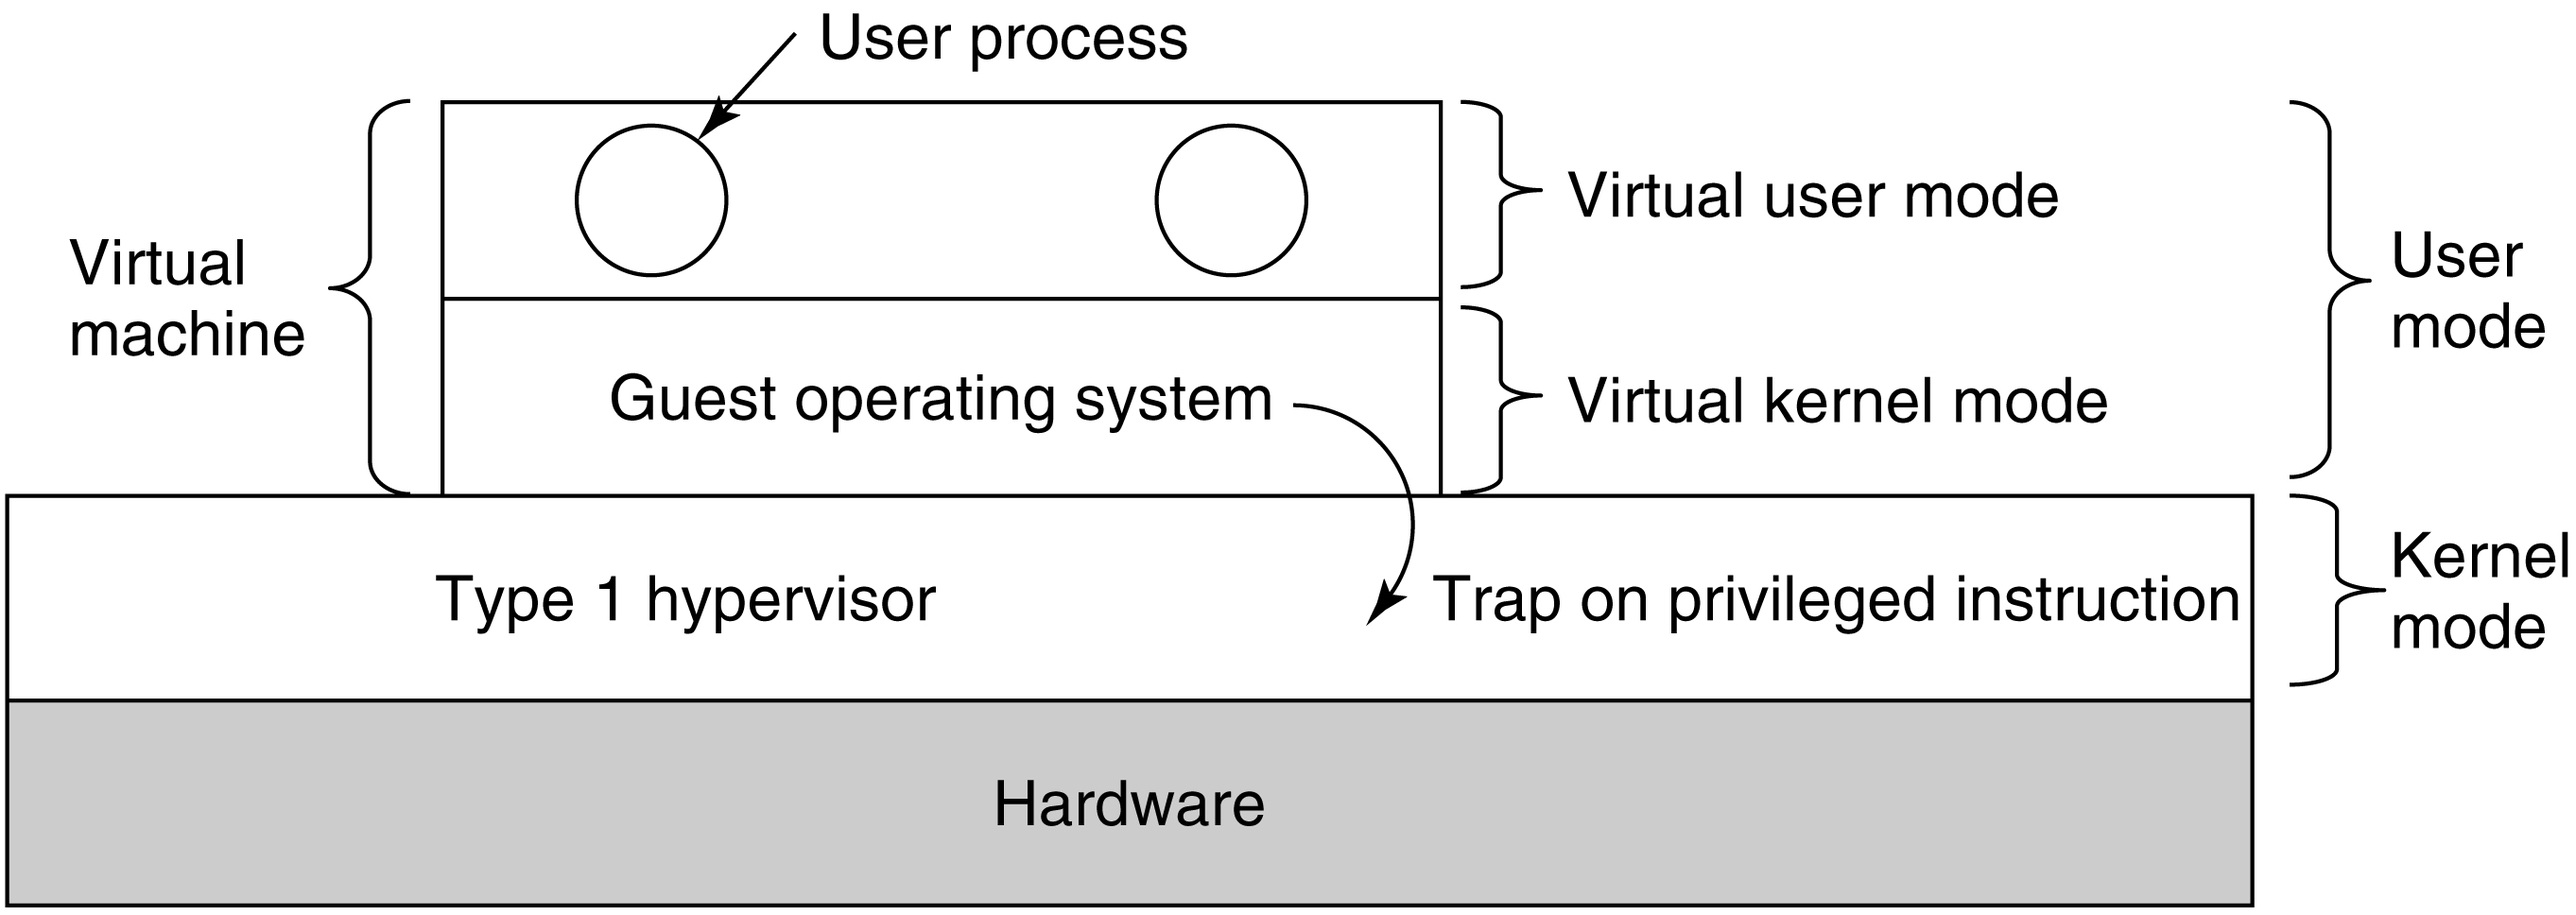
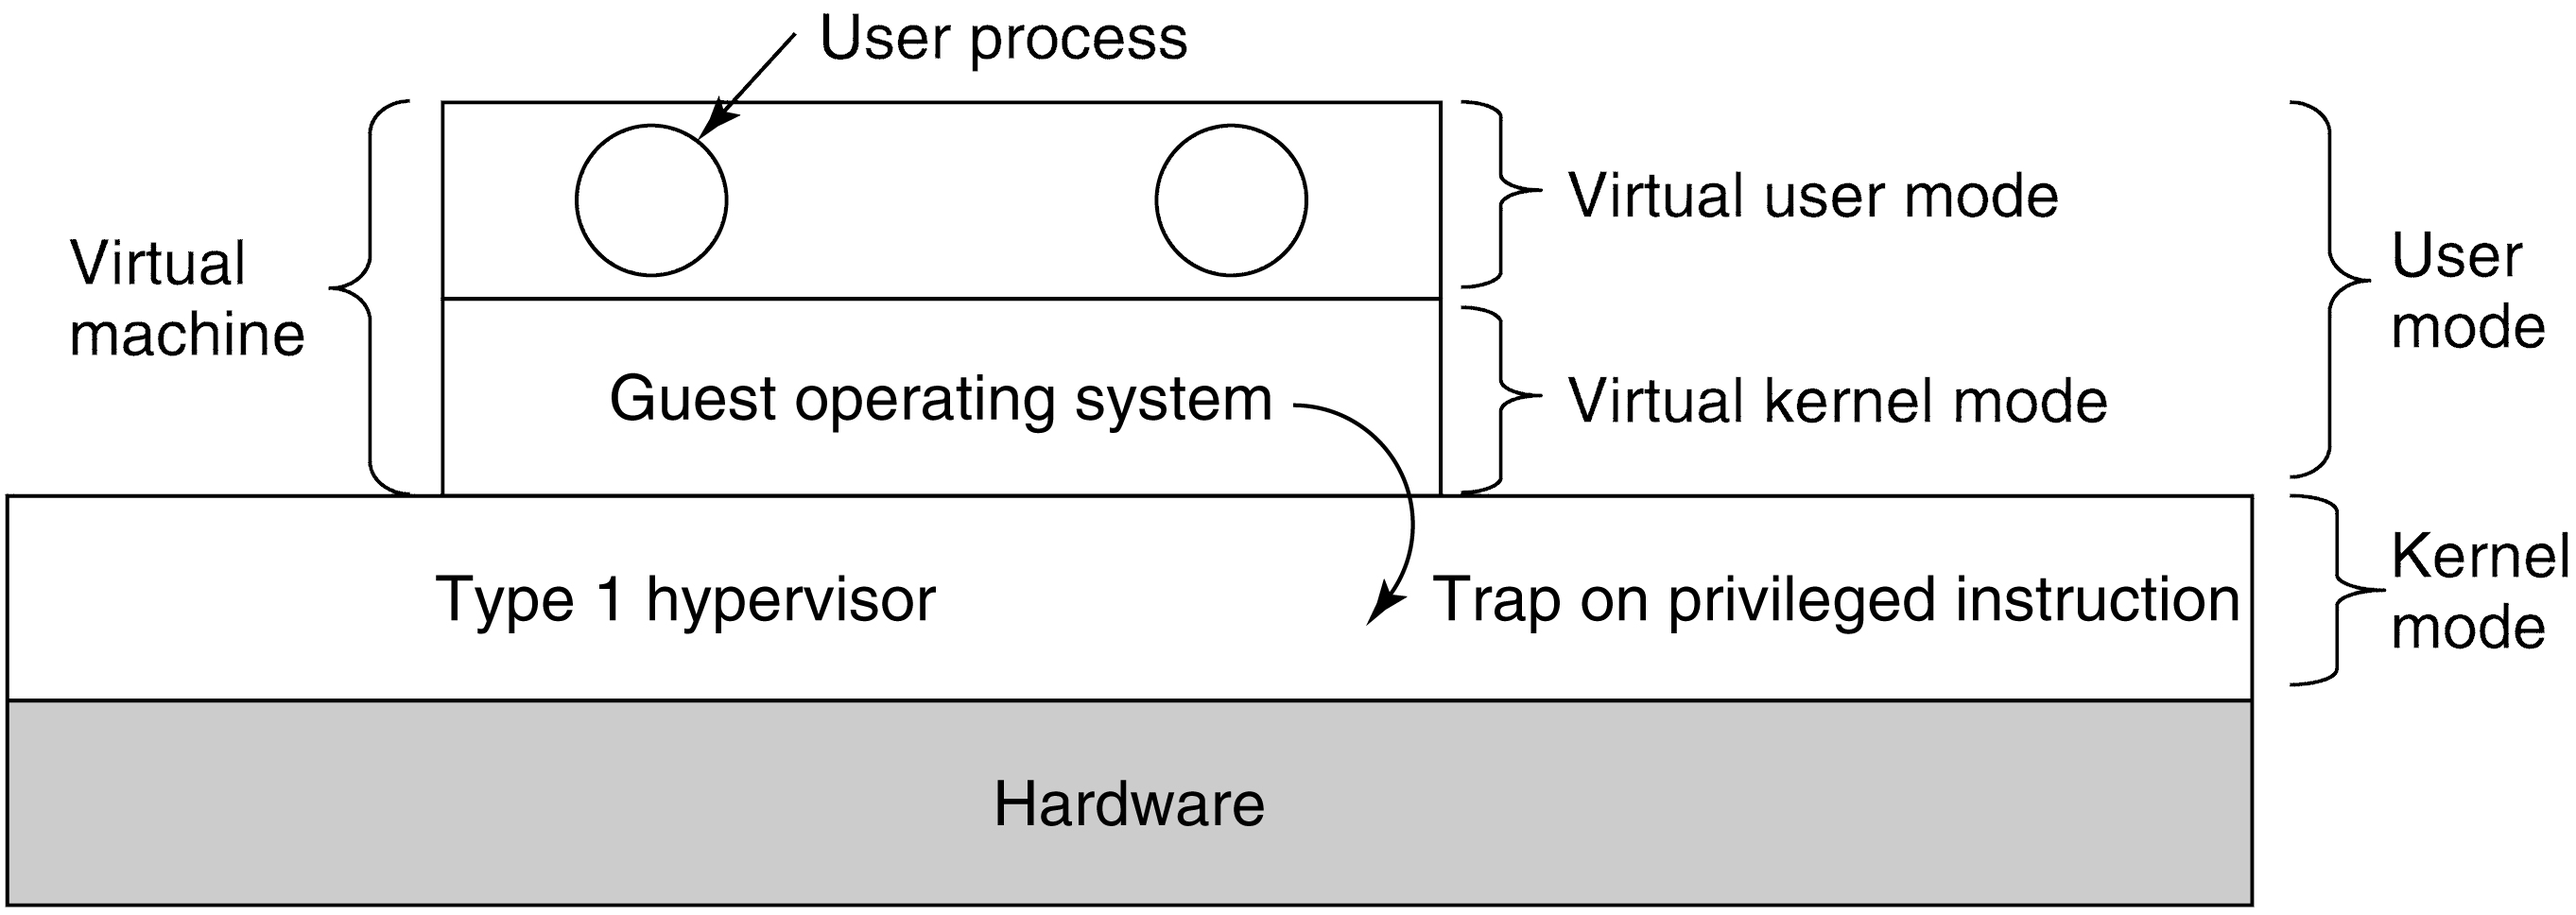
HTML rebuild.

diff --git a/EfficientVirtual.html b/EfficientVirtual.html
@@ -30,8 +30,8 @@
             <div style="text-align:center">
                 <p>
                 <img
-                src="graphics/07-03.jpg"
-                height="210" width="400">
+                src="graphics/07-03.png"
+                height="210" width="440">
                 </p>
             </div>
 
@@ -129,7 +129,7 @@
 
 
     <details>
-        <summary id="sum1">
+        <summary class="sum1">
             Quiz
         </summary>
         <ol>
@@ -160,19 +160,19 @@
             <ol type="a">
                 <li>
                 <input type="radio" name="q2" value="new">
-                in virtual kernel mode
+                 ^in virtual kernel mode
                 </li>
                 <li>
                 <input type="radio" name="q2" value="new">
-                in kernel mode
+                 in kernel mode
                 </li>
                 <li>
                 <input type="radio" name="q2" value="new">
-                as an ordinary application
+                 as an ordinary application
                 </li>
                 <li>
                 <input type="radio" name="q2" value="new">
-                very very slowly
+                 very very slowly
                 </li>
             </ol>
             <li>
@@ -181,19 +181,19 @@
             <ol type="a">
                 <li>
                 <input type="radio" name="q3" value="new">
-                automatic trapping of sensitive instructions
+                 automatic trapping of sensitive instructions
                 </li>
                 <li>
                 <input type="radio" name="q3" value="new">
-                the native x86 virtualization technology
+                 the native x86 virtualization technology
                 </li>
                 <li>
                 <input type="radio" name="q3" value="new">
-                protection rings
+                 ^protection rings
                 </li>
                 <li>
                 <input type="radio" name="q3" value="new">
-                all of the above
+                 all of the above
                 </li>
             </ol>
             <li>
@@ -202,19 +202,19 @@
             <ol type="a">
                 <li>
                 <input type="radio" name="q4" value="new">
-                calls to the hypervisor
+                 ^calls to the hypervisor
                 </li>
                 <li>
                 <input type="radio" name="q4" value="new">
-                interrupts
+                 interrupts
                 </li>
                 <li>
                 <input type="radio" name="q4" value="new">
-                page faults
+                 page faults
                 </li>
                 <li>
                 <input type="radio" name="q4" value="new">
-                segementation errors.
+                 segementation errors.
                 </li>
             </ol>
             <li>
@@ -223,19 +223,19 @@
             <ol type="a">
                 <li>
                 <input type="radio" name="q5" value="new">
-                a trap
+                 a trap
                 </li>
                 <li>
                 <input type="radio" name="q5" value="new">
-                a hypercall
+                 a hypercall
                 </li>
                 <li>
                 <input type="radio" name="q5" value="new">
-                a prisoner
+                 a prisoner
                 </li>
                 <li>
                 <input type="radio" name="q5" value="new">
-                a world switch.
+                 ^a world switch.
                 </li>
             </ol>
             <li>
@@ -244,28 +244,28 @@
             <ol type="a">
                 <li>
                 <input type="radio" name="q6" value="new">
-                always beats translation
+                 always beats translation
                 </li>
                 <li>
                 <input type="radio" name="q6" value="new">
-                never beats translation
+                 never beats translation
                 </li>
                 <li>
                 <input type="radio" name="q6" value="new">
-                sometimes beats translation
+                 ^sometimes beats translation
                 </li>
                 <li>
                 <input type="radio" name="q6" value="new">
-                no one knows.
+                 no one knows.
                 </li>
             </ol>
         </ol>
         <details>
-            <summary id="sum4">
+            <summary class="sum4">
                 Answers
             </summary>
             <p>
-                1. c; 2. a; 3. c; 4. a; 5. d; 6. c; 
+                1. c; 
             </p>
         </details>
     </details>
